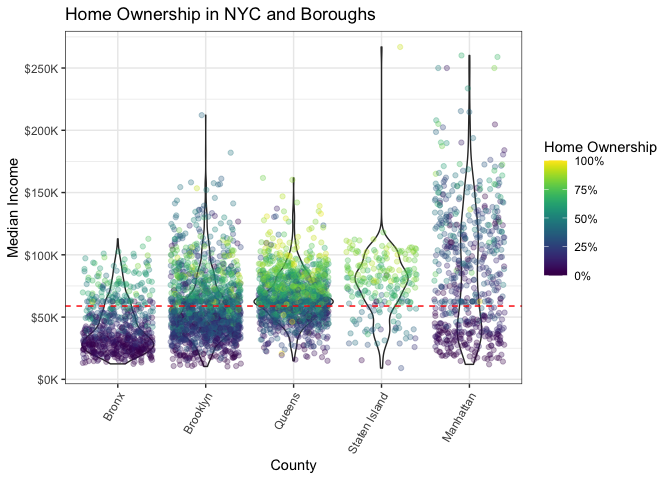
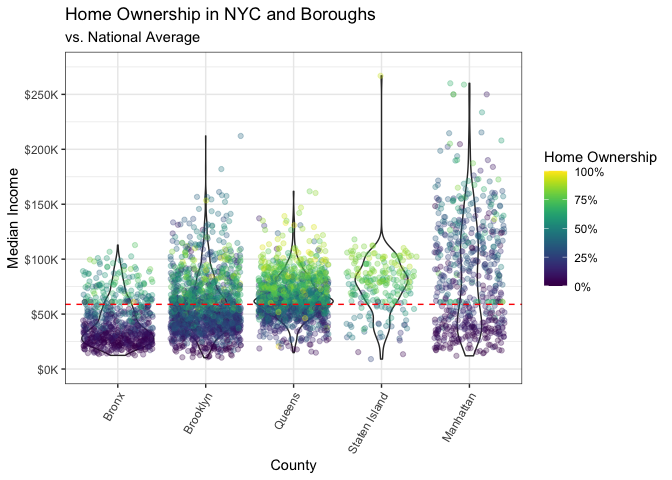
home ownership updated with counties and median income national average

diff --git a/Ty-Work/final-report-graphics/home-own-median-income.md b/Ty-Work/final-report-graphics/home-own-median-income.md
@@ -84,7 +84,8 @@ df <- df %>%
   rename(median_income=SE_MHE) %>%
   rename(perc_adults_employed = SE_EMPRAT) %>%
   rename(perc_worker_commute_over1hour = SE_JOBPROX) %>%
-  rename(perc_single_parent = SE_SINGLE)
+  rename(perc_single_parent = SE_SINGLE) 
+usa_med_inc <- median(df$median_income, na.rm = TRUE)
 ```
 
 # Create Data Frames
@@ -92,43 +93,56 @@ df <- df %>%
 ``` r
 # Philly
 philly <- df %>% 
-  filter(msaname15 == "Philadelphia-Camden-Wilmington, PA-NJ-DE-MD Metro Area") %>% 
-  mutate(type = ifelse(county_code == 42101, "Philadelphia", "Suburb")) %>%  # mutate a city, suburb column;City of Phila. is 42101
-  mutate(county_code = replace(county_code, county_code == '10003', 'New Castle (DE)')) %>%
-  mutate(county_code = replace(county_code, county_code == '24015', 'Cecil (MD)')) %>%
-  mutate(county_code = replace(county_code, county_code == '34005', 'Burlington (NJ)')) %>%
-  mutate(county_code = replace(county_code, county_code == '34007', 'Camden (NJ)')) %>%
-  mutate(county_code = replace(county_code, county_code == '34015', 'Gloucester (NJ)'))%>%
-  mutate(county_code = replace(county_code, county_code == '34033', 'Salem (NJ)')) %>%
-  mutate(county_code = replace(county_code, county_code == '42017', 'Bucks (PA)')) %>%
-  mutate(county_code = replace(county_code, county_code == '42029', 'Chester (PA)')) %>%
-  mutate(county_code = replace(county_code, county_code == '42045', 'Delaware (PA)')) %>%
-  mutate(county_code = replace(county_code, county_code == '42091', 'Montgomery (PA)'))%>%
-  mutate(county_code = replace(county_code, county_code == '42101', 'Philadelphia'))%>%
+  mutate(county_code = replace(county_code, county_code == '42017', 'Bucks')) %>%
+  mutate(county_code = replace(county_code, county_code == '42029', 'Chester')) %>%
+  mutate(county_code = replace(county_code, county_code == '42045', 'Delaware')) %>%
+  mutate(county_code = replace(county_code, county_code == '42091', 'Montgomery')) %>%
+  mutate(county_code = replace(county_code, county_code == '42101', 'Philadelphia')) %>% 
   mutate_all(~ifelse(is.na(.x), mean(.x, na.rm = TRUE), .x))
+```
 
-philly$county_code = factor(philly$county_code, levels = c("New Castle (DE)", "Cecil (MD)", "Burlington (NJ)", "Camden (NJ)", "Gloucester (NJ)", "Salem (NJ)", "Bucks (PA)", "Chester (PA)", "Delaware (PA)", "Montgomery (PA)", "Philadelphia"))
+    ## Warning: Problem with `mutate()` input `msaname15`.
+    ## ℹ argument is not numeric or logical: returning NA
+    ## ℹ Input `msaname15` is `(structure(function (..., .x = ..1, .y = ..2, . = ..1) ...`.
+
+    ## Warning in mean.default(.x, na.rm = TRUE): argument is not numeric or logical:
+    ## returning NA
+
+``` r
+philly <- philly %>% filter(county_code %in% c('Bucks', 'Chester', 'Delaware', 'Montgomery', 'Philadelphia'))
+
+philly$county_code = factor(philly$county_code, levels = c("Bucks", "Chester", "Delaware", "Montgomery", "Philadelphia"))
 
 # NYC
-nyc <- df %>% filter(
-    county_code == '36061' |
-    county_code ==  '36047' |
-    county_code ==  '36081' |
-    county_code ==  '36005' |
-    county_code ==  '36085' 
-)
-nyc <- nyc %>%
+nyc <- df %>%
   mutate(county_code = replace(county_code, county_code == '36061', 'Manhattan')) %>% 
   mutate(county_code = replace(county_code, county_code == '36047', 'Brooklyn')) %>%
-  mutate(county_code =  replace(county_code, county_code == '36081', 'Queens')) %>%
-  mutate(county_code =  replace(county_code, county_code == '36005', 'Bronx')) %>%
-  mutate(county_code =  replace(county_code, county_code == '36085', 'Staten Island'))%>%
+  mutate(county_code = replace(county_code, county_code == '36081', 'Queens')) %>%
+  mutate(county_code = replace(county_code, county_code == '36005', 'Bronx')) %>%
+  mutate(county_code = replace(county_code, county_code == '36085', 'Staten Island'))%>%
   mutate_all(~ifelse(is.na(.x), mean(.x, na.rm = TRUE), .x))
+```
+
+    ## Warning: Problem with `mutate()` input `msaname15`.
+    ## ℹ argument is not numeric or logical: returning NA
+    ## ℹ Input `msaname15` is `(structure(function (..., .x = ..1, .y = ..2, . = ..1) ...`.
+    
+    ## Warning: argument is not numeric or logical: returning NA
+
+``` r
+nyc <- nyc %>% filter(county_code %in% c('Manhattan', 'Brooklyn', 'Queens', 'Bronx', 'Staten Island'))
 
 nyc$county_code = factor(nyc$county_code, levels = c("Manhattan", "Brooklyn", "Queens", "Bronx", "Staten Island"))
 
 # Houston
-houston <- df %>% filter((county_code == "48201") | (county_code == "48157")| (county_code == "48339")|(county_code == "48167")|(county_code == "48039")|(county_code == "48291")|(county_code == "48473")|(county_code == "48071")) %>% 
+houston <- df %>% filter((county_code == "48201") | 
+                           (county_code == "48157")| 
+                           (county_code == "48339")|
+                           (county_code == "48167")|
+                           (county_code == "48039")|
+                           (county_code == "48291")|
+                           (county_code == "48473")|
+                           (county_code == "48071")) %>% 
   mutate(group = ifelse(county_code == "48201", "city", "suburb")) %>%
   mutate(county_name = case_when(county_code == "48201" ~ "Harris", 
                                  county_code == "48157" ~ "Fort Bend", 
@@ -144,14 +158,24 @@ houston$county_name = factor(houston$county_name, levels = c("Harris", "Fort Ben
 
 # Los Angeles
 la <- df %>%
-  mutate(county_name = case_when(county_code == "06111" ~ "Ventura",
-                                county_code == "06059" ~ "Orange",
-                                county_code == "06071" ~ "San Bernardino",
-                                county_code == "06037" ~ "Los Angeles"))%>%
-  drop_na(county_name ) %>% 
+  mutate(county_code = replace(county_code,county_code == "06111", "Ventura")) %>%
+  mutate(county_code = replace(county_code, county_code == "06059","Orange"))%>%
+  mutate(county_code = replace(county_code, county_code == "06071","San Bernardino"))%>%
+  mutate(county_code = replace(county_code,county_code == "06037", "Los Angeles"))%>%
+  mutate(county_code = replace(county_code,county_code == "06029", "Kern"))%>%
   mutate_all(~ifelse(is.na(.x), mean(.x, na.rm = TRUE), .x))
+```
 
-la$county_name = factor(la$county_name, levels = c("Ventura", "Orange", "San Bernardino", "Los Angeles"))
+    ## Warning: Problem with `mutate()` input `msaname15`.
+    ## ℹ argument is not numeric or logical: returning NA
+    ## ℹ Input `msaname15` is `(structure(function (..., .x = ..1, .y = ..2, . = ..1) ...`.
+    
+    ## Warning: argument is not numeric or logical: returning NA
+
+``` r
+la <- la %>% filter(county_code %in% c("Ventura", "Orange", "San Bernardino", "Los Angeles", "Kern"))
+
+la$county_code = factor(la$county_code, levels = c("Ventura", "Orange", "San Bernardino", "Los Angeles", "Kern"))
 ```
 
 # Final Graphics
@@ -167,13 +191,13 @@ ggplot(philly, aes(x = reorder(county_code, median_income), y = median_income)) 
   scale_color_viridis(name = "Home Ownership",
                        labels = function(x){paste0(x, "%")})+
   scale_y_continuous(labels = function(x){paste0("$", x/1000, "K")},
-                     breaks = seq(0,300000,50000)) +
-    labs(
-    x = "County",
-    y = "Median Income",
-    title = "Home Ownership in Philadelphia and Suburbs"
-  ) +
-  geom_hline(yintercept = median(philly$median_income), color = "red", linetype = "dashed")
+                     breaks = seq(0,275000,50000)) +
+  labs(x = "County",
+       y = "Median Income",
+       title = "Home Ownership in Philadelphia and Suburbs",
+       subtitle = "vs. National Average") +
+  geom_hline(yintercept = median(philly$median_income), color = "red", linetype = "dashed") +
+  expand_limits(y = c(0,275000))
 ```
 
 ![](home-own-median-income_files/figure-gfm/unnamed-chunk-6-1.png)<!-- -->
@@ -189,13 +213,13 @@ ggplot(nyc, aes(x = reorder(county_code, median_income), y = median_income)) +
   scale_color_viridis(name = "Home Ownership",
                        labels = function(x){paste0(x, "%")})+
   scale_y_continuous(labels = function(x){paste0("$", x/1000, "K")}, 
-                     breaks = seq(0,300000,50000)) +
-    labs(
-    x = "County",
-    y = "Median Income",
-    title = "Home Ownership in NYC and Boroughs"
-  ) +
-  geom_hline(yintercept = median(nyc$median_income), color = "red", linetype = "dashed")
+                     breaks = seq(0,275000,50000)) +
+  labs(x = "County",
+       y = "Median Income",
+       title = "Home Ownership in NYC and Boroughs",
+       subtitle = "vs. National Average") +
+  geom_hline(yintercept = median(nyc$median_income), color = "red", linetype = "dashed") +
+  expand_limits(y = c(0,275000))
 ```
 
 ![](home-own-median-income_files/figure-gfm/unnamed-chunk-7-1.png)<!-- -->
@@ -211,13 +235,13 @@ ggplot(houston, aes(x = reorder(county_name, median_income), y = median_income))
   scale_color_viridis(name = "Home Ownership",
                        labels = function(x){paste0(x, "%")})+
   scale_y_continuous(labels = function(x){paste0("$", x/1000, "K")}, 
-                     breaks = seq(0,300000,50000)) +
-    labs(
-    x = "County",
-    y = "Median Income",
-    title = "Home Ownership in Houston and Suburbs"
-  ) +
-  geom_hline(yintercept = median(houston$median_income), color = "red", linetype = "dashed")
+                     breaks = seq(0,275000,50000)) +
+  labs(x = "County",
+       y = "Median Income",
+       title = "Home Ownership in Houston and Suburbs",
+       subtitle = "vs. National Average") +
+  geom_hline(yintercept = usa_med_inc, color = "red", linetype = "dashed") +
+  expand_limits(y = c(0,275000))
 ```
 
 ![](home-own-median-income_files/figure-gfm/unnamed-chunk-8-1.png)<!-- -->
@@ -225,7 +249,7 @@ ggplot(houston, aes(x = reorder(county_name, median_income), y = median_income))
 ## Los Angeles
 
 ``` r
-ggplot(la, aes(x = reorder(county_name, median_income), y = median_income)) +
+ggplot(la, aes(x = reorder(county_code, median_income), y = median_income)) +
   geom_violin() +
   geom_point(position = position_jitter(width = 0.4), alpha = .3, aes(color = perc_home_ownership)) +
   theme_bw() +
@@ -233,13 +257,13 @@ ggplot(la, aes(x = reorder(county_name, median_income), y = median_income)) +
   scale_color_viridis(name = "Home Ownership",
                        labels = function(x){paste0(x, "%")})+
   scale_y_continuous(labels = function(x){paste0("$", x/1000, "K")}, 
-                     breaks = seq(0,300000,50000)) +
-    labs(
-    x = "County",
-    y = "Median Income",
-    title = "Home Ownership in Los Angeles and Suburbs"
-  ) +
-  geom_hline(yintercept = median(la$median_income), color = "red", linetype = "dashed")
+                     breaks = seq(0,275000,50000)) +
+  labs(x = "County",
+       y = "Median Income",
+       title = "Home Ownership in Los Angeles and Suburbs",
+       subtitle = "vs. National Average") +
+  geom_hline(yintercept = usa_med_inc, color = "red", linetype = "dashed") +
+  expand_limits(y = c(0,275000))
 ```
 
 ![](home-own-median-income_files/figure-gfm/unnamed-chunk-9-1.png)<!-- -->
